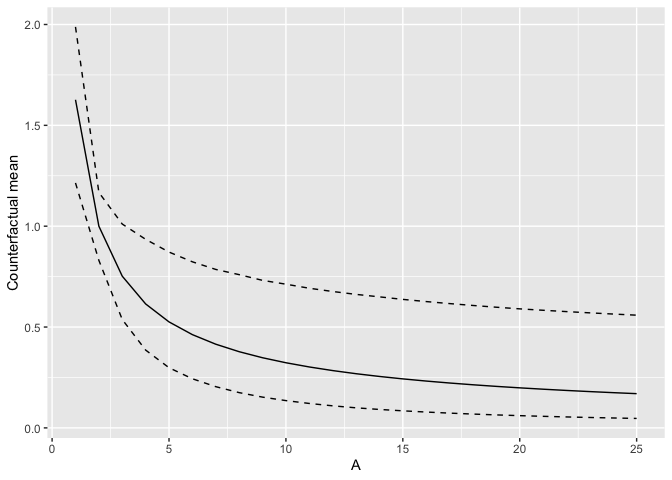
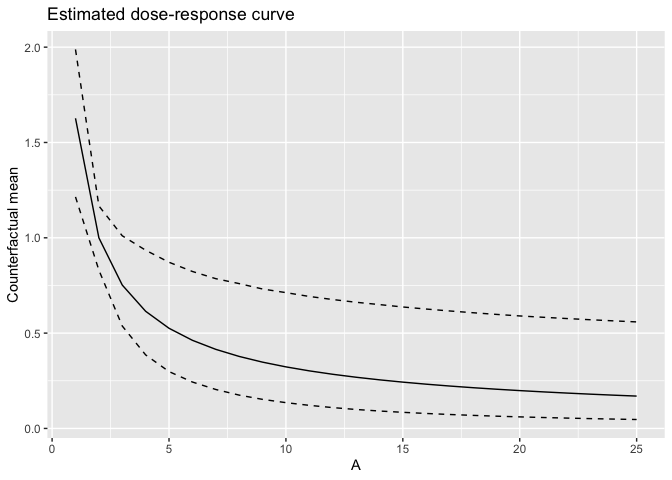
Updated README

diff --git a/README.md b/README.md
@@ -76,9 +76,7 @@ ggplot(pred, aes(A, point)) +
   geom_line() +
   geom_line(aes(y = lower), lty = 2) +
   geom_line(aes(y = upper), lty = 2) +
-  labs(x = "A", y = "Counterfactual mean", main = "Estimated dose-response curve")
-#> Ignoring unknown labels:
-#> • main : "Estimated dose-response curve"
+  labs(x = "A", y = "Counterfactual mean", title = "Estimated dose-response curve")
 ```
 
 <img src="man/figures/README-plot-1.png" alt="" width="75%" />
